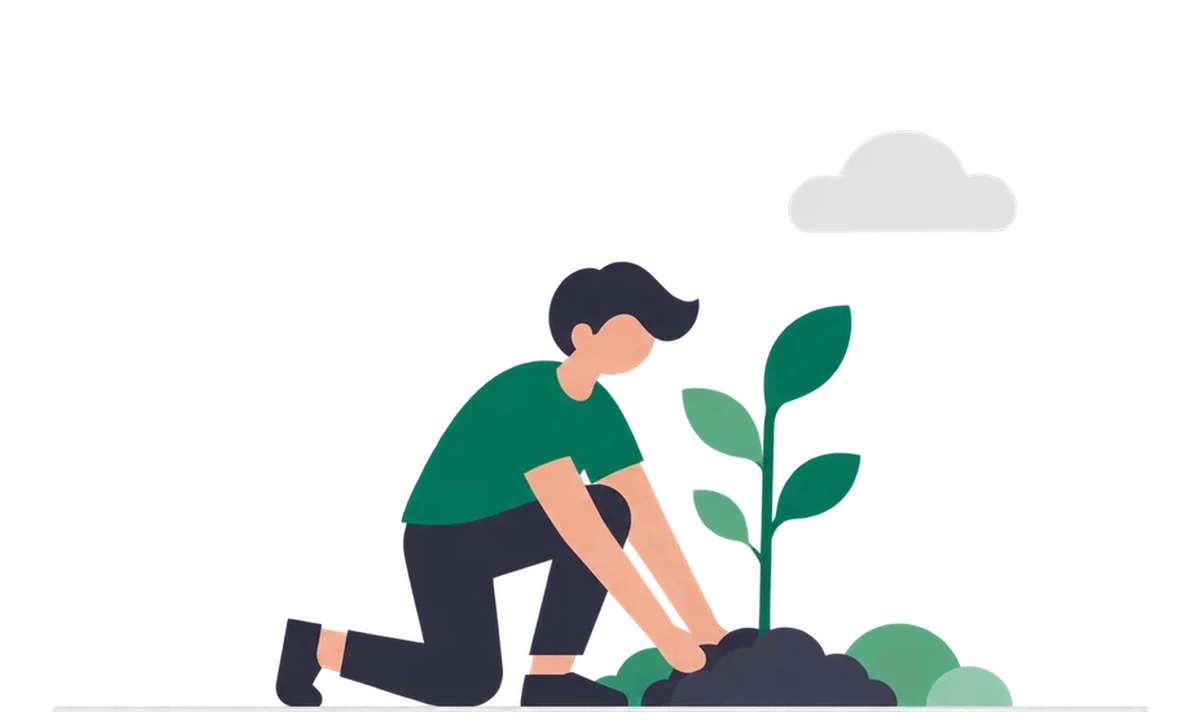
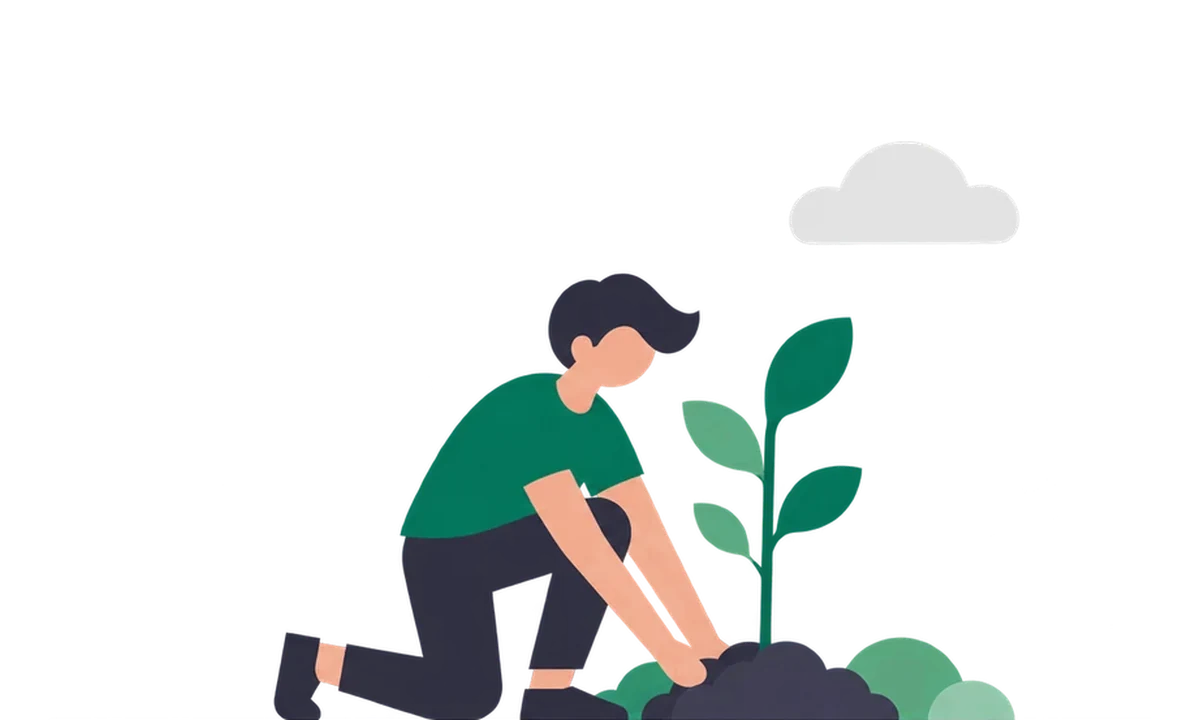
feat: illustrations stand on the card edge, drawn ground line removed

diff --git a/hub/static/style.css b/hub/static/style.css
@@ -10,7 +10,7 @@
 
 /* Categories and tools from tools.json (27 cards, 3 per row). The header is the name in lower case and a green dot, no mark. */
 .brand{gap:0}.card-grid{grid-template-columns:repeat(3,minmax(0,1fr));gap:20px}.card-visual{height:210px}.card-top{justify-content:space-between;padding:14px 23px 10px}.card-status{font-size:13px;font-weight:600;color:var(--muted)}.card-status.live{color:var(--green)}.tool-card.soon .arrow{color:var(--muted)}.card-copy h4{font-size:27px;letter-spacing:-.045em;line-height:1.1;margin:0 0 9px}.card-copy p{min-height:0}.card-cta{margin-top:20px}
-.soon-visual{background:linear-gradient(180deg,#f4f9f5,#e9f3ec)}.soon-visual img{display:block;width:100%;height:100%;object-fit:contain;object-position:center bottom;padding:6px 8px 3px}
+.soon-visual{background:linear-gradient(180deg,#f4f9f5,#e9f3ec)}.soon-visual img{display:block;width:100%;height:100%;object-fit:contain;object-position:center bottom;padding:6px 8px 0}
 .group-nav{display:flex;flex-wrap:wrap;gap:8px 24px;margin:0 0 8px}.group-nav a{font-size:15px;font-weight:600;color:var(--muted)}.group-nav a:hover{color:var(--green)}
 .group{margin-top:38px}.group-head{display:flex;align-items:baseline;justify-content:space-between;border-top:1px solid var(--line);padding:18px 0 16px}.group-head h3{font-size:30px;letter-spacing:-.05em;margin:0}.group-head span{font-size:14px;color:var(--muted)}
 .tool-page{padding:clamp(40px,4vw,64px) clamp(24px,10vw,150px) 80px}.crumbs{display:flex;gap:10px;font-size:14px;color:var(--muted);margin-bottom:26px}.crumbs a:hover{color:var(--green)}.tool-page h1{font-size:clamp(46px,5.4vw,76px);letter-spacing:-.065em;line-height:1;margin:12px 0 16px}.tool-line{color:var(--muted);font-size:clamp(18px,1.6vw,21px);max-width:640px;margin:0}.tool-visual{height:320px;margin:34px 0 40px}.tool-cols{display:grid;grid-template-columns:1fr 1fr;gap:48px;margin-bottom:44px}.tool-cols h2{font-size:24px;letter-spacing:-.04em;margin:0 0 12px}.tool-cols h2+p,.tool-cols ul{margin:0 0 26px;line-height:1.5}.tool-cols ul{padding-left:20px}.tool-cols li{margin-bottom:8px}.tool-cols a{color:var(--green);border-bottom:1px solid #a1c9b2}.tool-page .text-link span{margin:0 10px 0 0}

diff --git a/hub/tools/fit_illustrations.py b/hub/tools/fit_illustrations.py
@@ -1,6 +1,8 @@
-"""Bring every card illustration to one scale: crop to the drawing, resize it to the same visual size, sit it on one ground line.
+"""Bring every card illustration to one scale: crop to the drawing, drop its ground line, resize it to the same
+visual size and stand it on the bottom edge (the card edge is the ground).
 
-Run after adding or replacing a file in static/illustrations/. Rerunning is safe: an already fitted file is left alone.
+Run after adding or replacing a file in static/illustrations/. Rerunning is safe: a fitted file touches the bottom
+edge and is left alone.
 """
 from pathlib import Path
 
@@ -8,25 +10,49 @@ from PIL import Image
 
 DIR = Path(__file__).resolve().parent.parent / "static" / "illustrations"
 W, H = 1200, 720
-MAX_W, MAX_H = 1160, 684  # the drawing never goes closer than 20 px to the sides, 28 px to the top
-BASE = 712                # bottom of every drawing (its ground line) sits here, just above the card edge
+MAX_W, MAX_H = 1110, 692  # at least 45 px from the sides (clear of the card's round corners), 28 px from the top
 AREA = 0.74 * W * H       # same visual size: equal bounding-box area, unless that breaks MAX_W/MAX_H
+
+
+def opaque(img, y, alpha=20):
+    return sum(1 for x in range(img.width) if img.getpixel((x, y))[3] > alpha)
+
+
+def ground_line_top(img, box):
+    """y where the thin light grey ground line starts, or box bottom if there is none.
+
+    The line is the widest block of rows at the bottom; the row above it is much narrower (feet, legs, a wall)."""
+    rows = [opaque(img, y) for y in range(box[3] - 1, max(box[1], box[3] - 14), -1)]
+    ref = max(rows[:4])
+    k = next((i for i in range(1, len(rows)) if rows[i] < 0.9 * ref), None)
+    if not k:
+        return box[3]
+    grey = total = 0
+    for y in range(box[3] - k, box[3]):
+        for x in range(box[0], box[2]):
+            r, g, b, a = img.getpixel((x, y))
+            if a > 20:
+                total += 1
+                grey += min(r, g, b) > 190 and max(r, g, b) - min(r, g, b) < 25
+    if grey <= 0.6 * total:
+        return box[3]
+    top = box[3] - k
+    while top > box[3] - k - 2 and opaque(img, top - 1, 0) >= 0.9 * ref:  # the faint anti-aliased top edge of the line
+        top -= 1
+    return top
 
 
 def fit(img):
     img = img.convert("RGBA")
     box = img.getchannel("A").point(lambda a: 255 if a > 20 else 0).getbbox()
-    art = img.crop(box)
+    if box[3] == H:
+        return None  # already stands on the edge
+    art = img.crop((box[0], box[1], box[2], ground_line_top(img, box)))
     w, h = art.size
     s = min(MAX_W / w, MAX_H / h, (AREA / (w * h)) ** 0.5)
-    if abs(s - 1) < 0.02:  # right size already: only move it, no resampling
-        if box[3] in range(BASE - 2, BASE + 3):
-            return None
-        s = 1
-    else:
-        art = art.resize((round(w * s), round(h * s)), Image.LANCZOS)
+    art = art.resize((round(w * s), round(h * s)), Image.LANCZOS)
     out = Image.new("RGBA", (W, H), (0, 0, 0, 0))
-    out.paste(art, ((W - art.width) // 2, BASE - art.height))
+    out.paste(art, ((W - art.width) // 2, H - art.height))
     return out
 
 

diff --git a/hub/static/illustrations/LICENSE.md b/hub/static/illustrations/LICENSE.md
@@ -11,19 +11,18 @@ any, in and to Output.“ Уговорка там: изходът може да 
 
 **Формат.** WebP 1200 × 720 (5:3), прозрачен фон, 20-70 KB. Фонът идва от картона на хъба.
 **Мащаб.** Всички са приведени с `tools/fit_illustrations.py` (27.09.2026): рисунката е изрязана от
-празното и увеличена до еднаква площ (около 74% от платното), но не по-широка от 1160 px и не
-по-висока от 684 px. Долният ѝ край (линията на земята) е на y = 712 при всички, а картонът я показва
-закотвена долу (`object-position: bottom`), на около 5 px от ръба, без да реже рисунката. Широките сцени
-(Имоти, Парламент, Пътна обстановка) опират в ширината и затова изглеждат малко по-ниски.
-Оригиналите PNG 1619 × 971 са в историята на git (commit „Add files via upload“, 27.09.2026) и при
-собственика.
+празното, нарисуваната светлосива линия на земята е махната (4-8 реда в долния край), а рисунката е
+увеличена до еднаква площ (около 74% от платното), но не по-широка от 1110 px и не по-висока от 692
+px. Стои на долния ръб на платното, а картонът я показва закотвена долу (`object-position: bottom`,
+без долен отстъп): ръбът на картона е земята. Широките сцени (Имоти, Парламент, Пътна обстановка)
+опират в ширината и затова изглеждат малко по-ниски.
 
 **Стил за нови илюстрации** (да изглеждат като една серия):
 - плоски векторни сцени, няколко големи форми, един-двама души без черти на лицето, без контури,
   градиенти, сенки и текстури;
 - гама: `#08785c`, `#5cad82`, `#b4d7bf`, `#2f2e41`, `#3f3d56`, `#e6e6e6`, кожа `#e8a88f`;
-- 5:3, прозрачен фон, тънка светлосива линия на земята, всичко на една линия (размерът и
-  положението после ги уеднаквява `tools/fit_illustrations.py`);
+- 5:3, прозрачен фон, тънка светлосива линия на земята, всичко на една линия (скриптът после маха
+  линията и уеднаквява размера и положението);
 - без текст и цифри; знакът € само в Еврофондове.
 
 | Файл | Сцена |

diff --git a/hub/README.md b/hub/README.md
@@ -12,8 +12,9 @@
 - **Картони:** всеки инструмент, работещ или в подготовка, има илюстрация `static/illustrations/<слъг>.webp` (1200 × 720, прозрачен
   фон, генерирани с GPT Image; права, стил и правила за нови в
   [static/illustrations/LICENSE.md](static/illustrations/LICENSE.md)). След всяка нова или сменена
-  илюстрация се пуска `python tools/fit_illustrations.py`: изрязва празното, привежда рисунката до
-  общия размер и я слага на общата линия на земята (y = 712, близо до долния ръб на картона), за да са всички картони в един мащаб.
+  илюстрация се пуска `python tools/fit_illustrations.py`: изрязва празното и нарисуваната линия на
+  земята, привежда рисунката до общия размер и я изправя на долния ръб на картона (той е земята), за
+  да са всички картони в един мащаб.
 - **`/instrumenti/<слъг>`**: страница за инструмент в подготовка: на какво ще отговаря, източници,
   какво още не знаем. **`/tools.json`**: списъкът за другите инструменти (напр. Моята община).
 - **Нов инструмент заработи:** в `tools.json` се сменя `status` на `active`, добавят се `url_env` и
